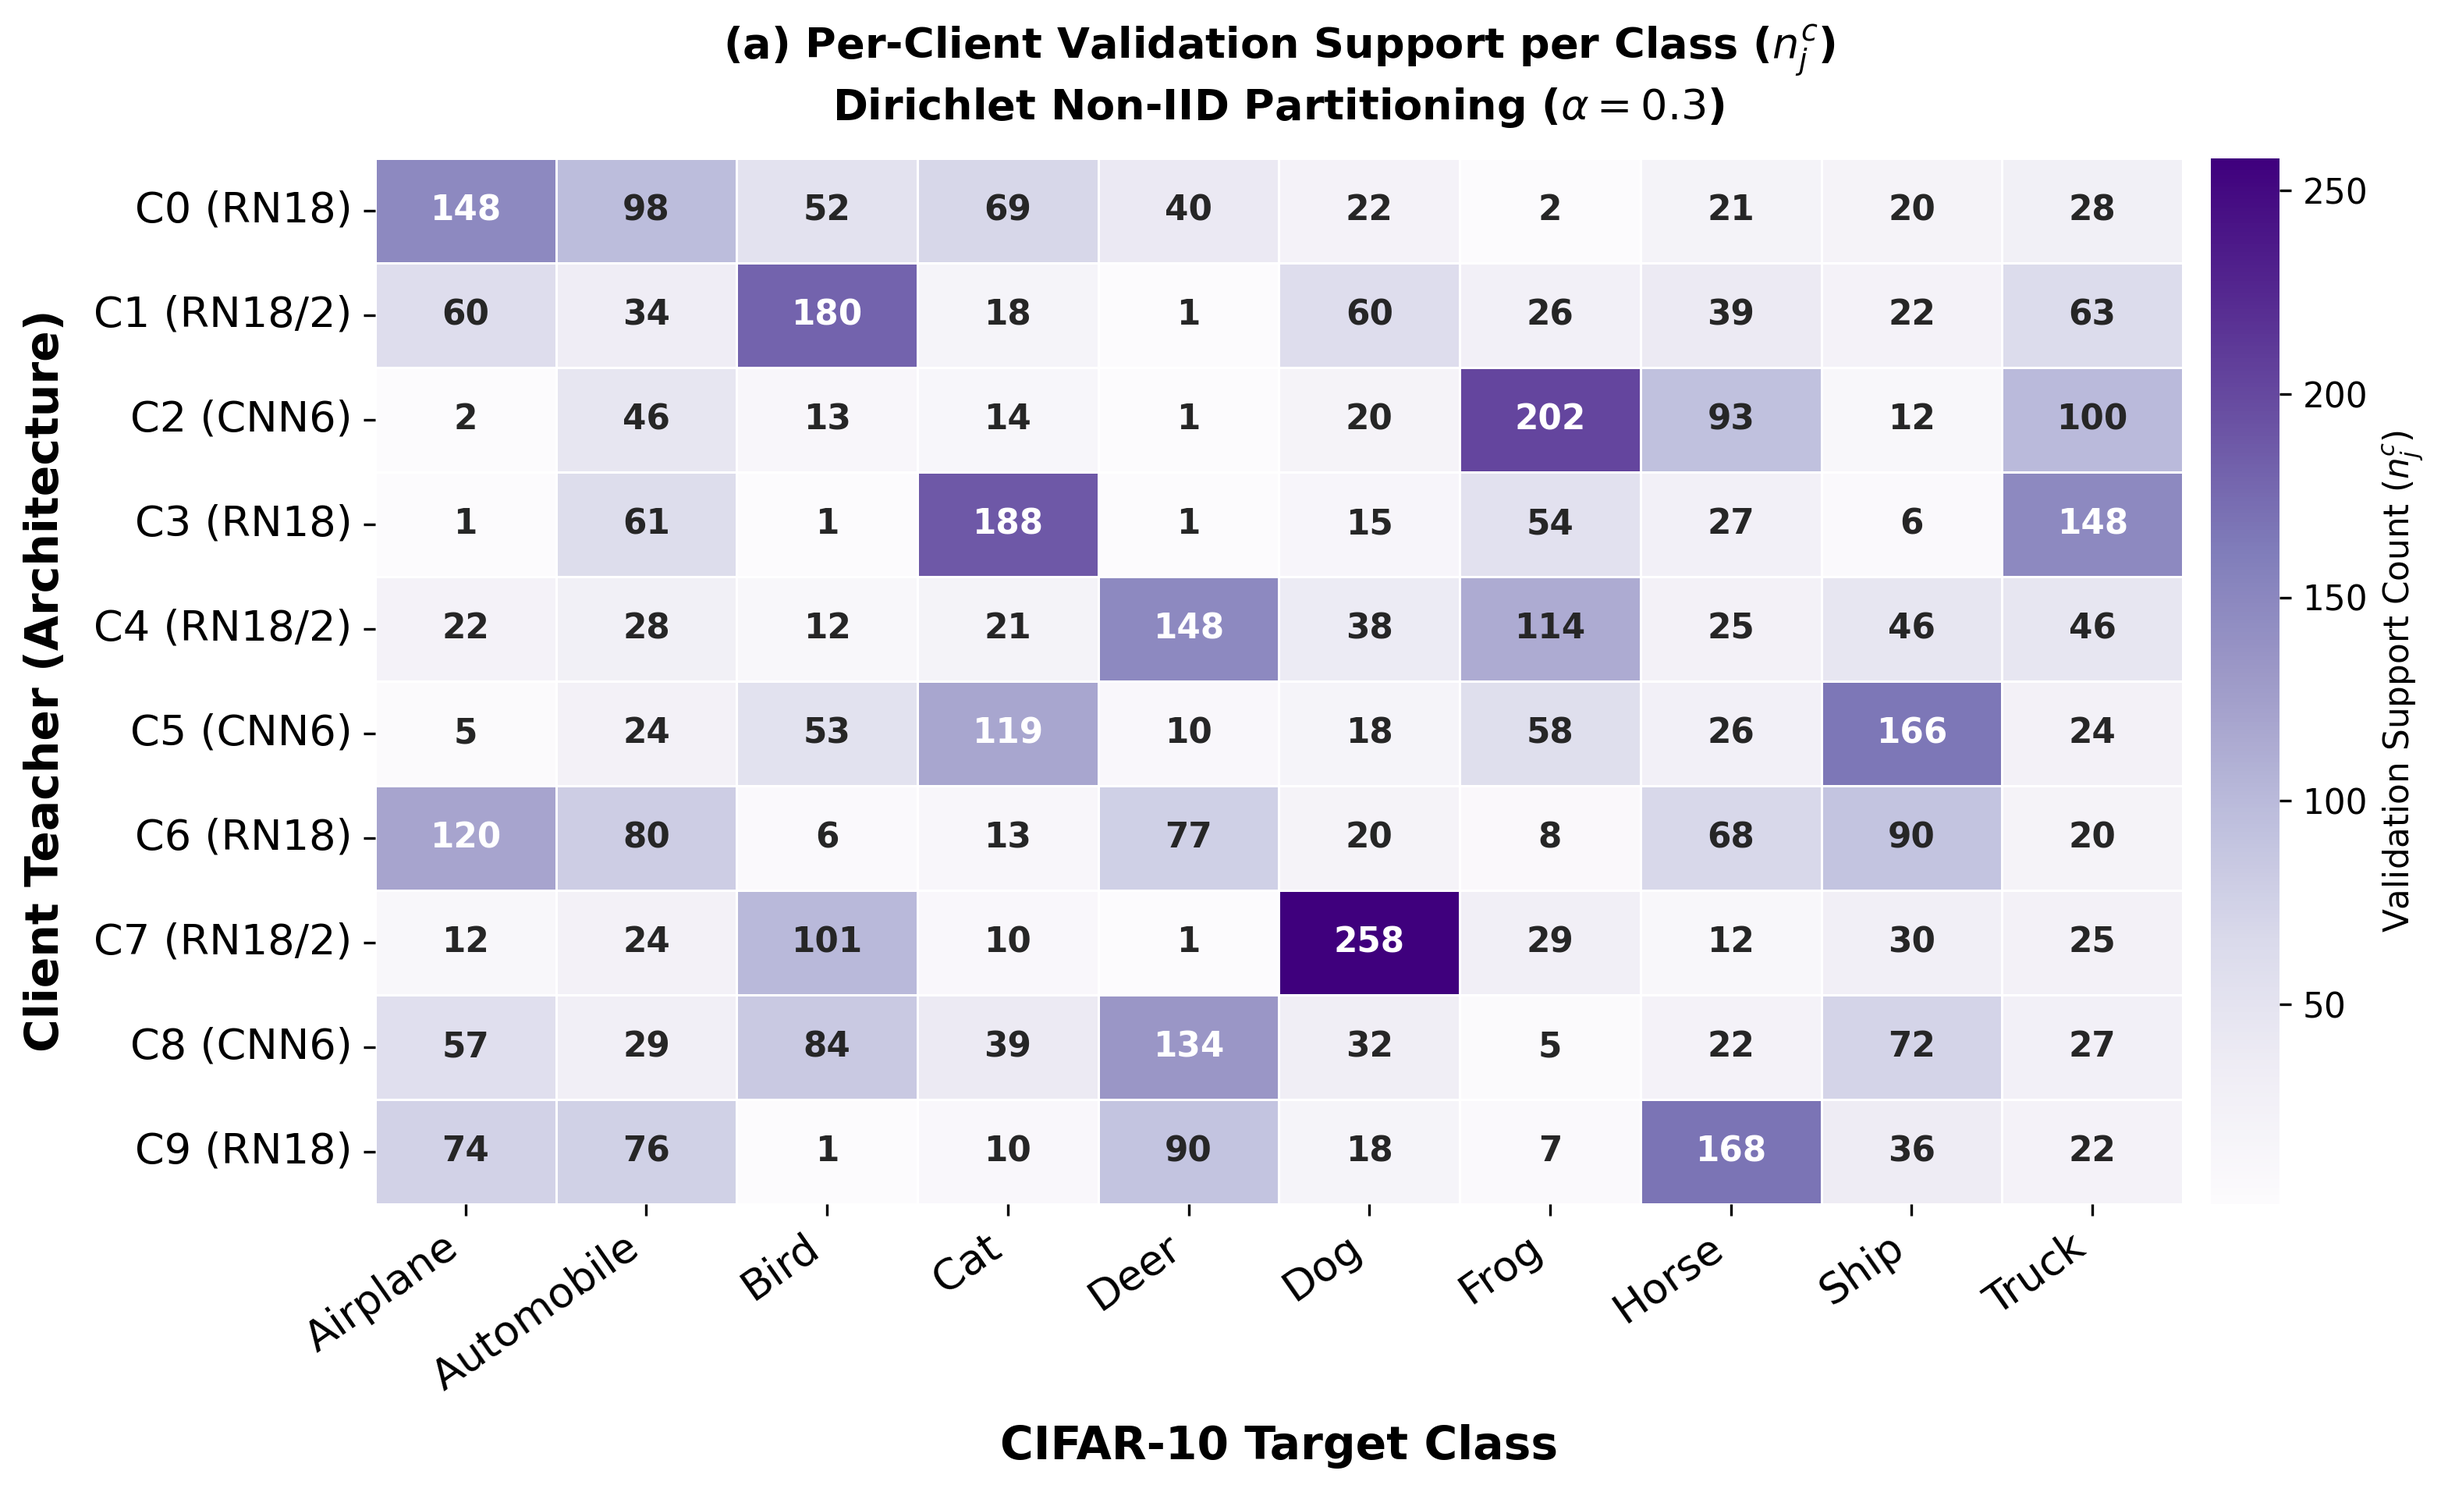
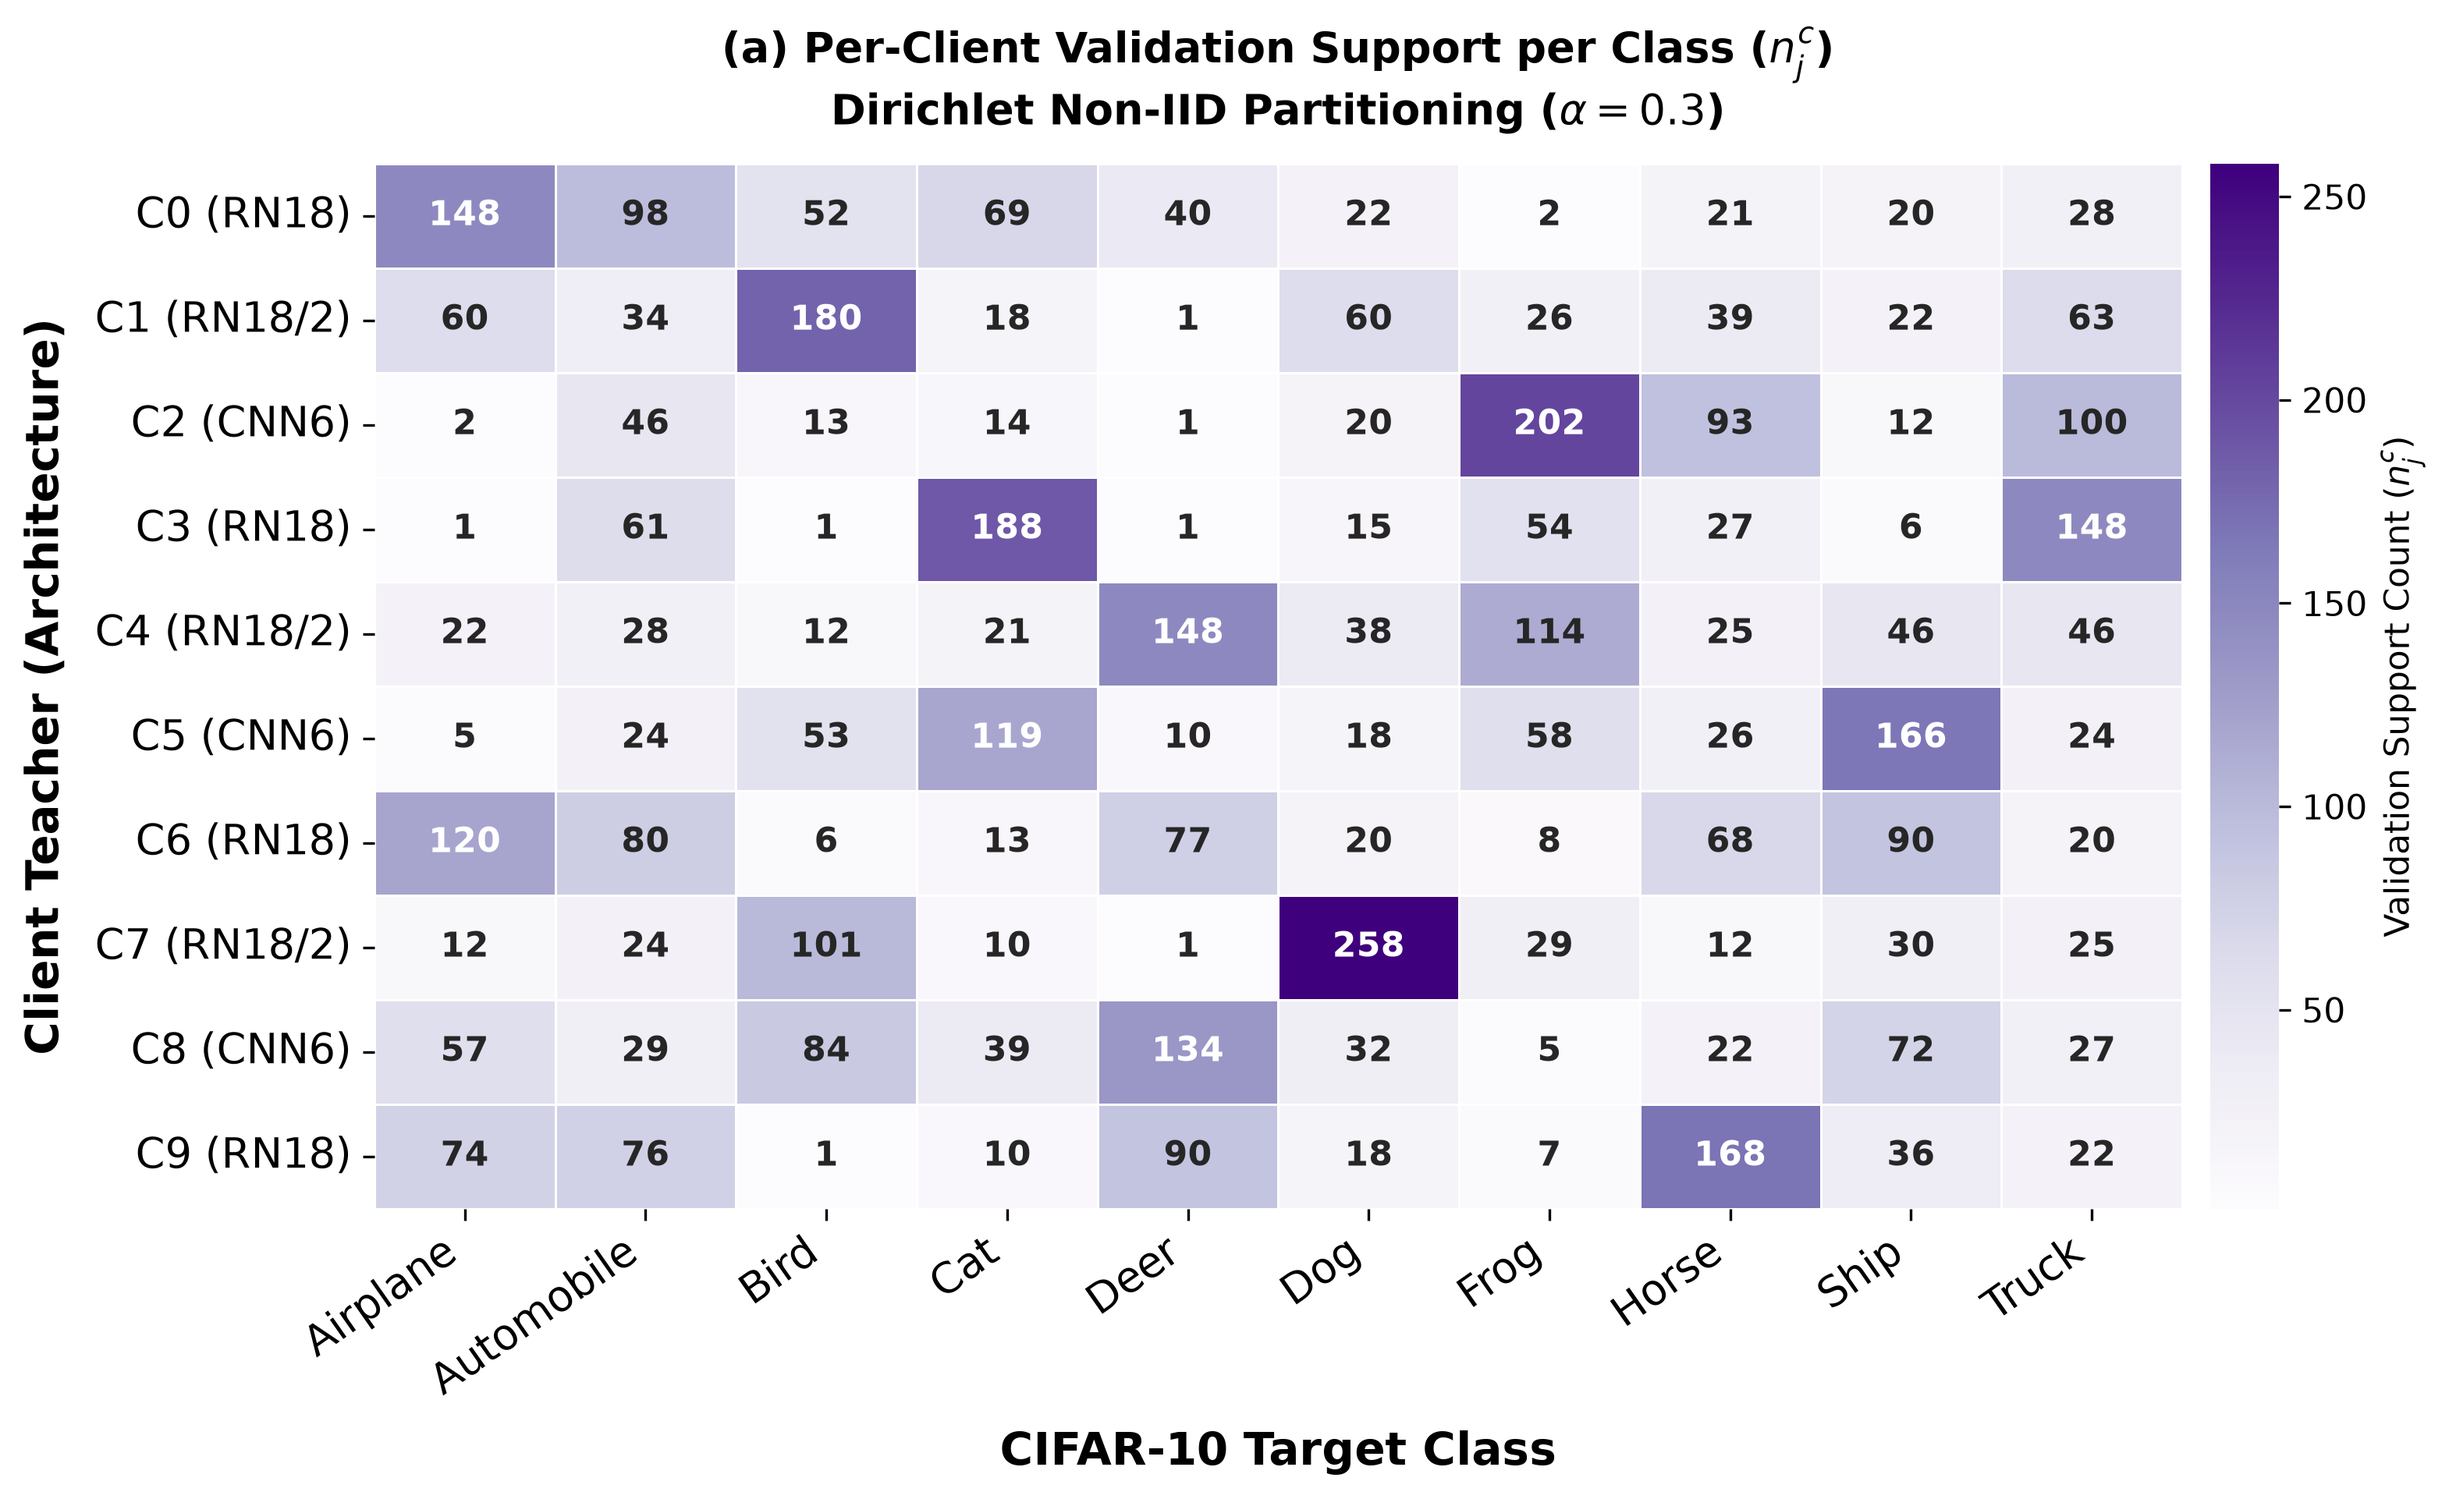
Update README.md and Figure 2 panel images

diff --git a/README.md b/README.md
@@ -42,10 +42,10 @@ Conventional federated learning (FL) relies on parameter averaging, which forces
 | (a) Validation Support Counts ($n_j^c$) | (b) Per-Client Global Test Accuracy (%) |
 | :---: | :---: |
 | <img src="figures/cifar10_panel_a_val_support.png" width="100%" /> | <img src="figures/cifar10_panel_b_test_acc.png" width="100%" /> |
-| **(c) Success Case (Bird Image #9381)** | **(d) Failure Case (Dog Image #128)** |
-| <img src="figures/cifar10_panel_c_success_bird.png" width="100%" /> | <img src="figures/cifar10_panel_d_failure_dog.png" width="100%" /> |
+| **(c) Success Case (Ship Image #2)** | **(d) Failure Case (Dog Image #128)** |
+| <img src="figures/cifar10_panel_c_success_ship.png" width="100%" /> | <img src="figures/cifar10_panel_d_failure_dog.png" width="100%" /> |
 
-> Figure 2. CRAD’s two-stage aggregation traced on two individual CIFAR-10 test images. W is the assigned distillation weight after per-class normalization, and the parenthesized value is the client’s probability on the true class. (c) Success case, a bird image: teachers with a single sample of the class are dropped as uninformed, four more fall outside the acceptance band ˜qc ± τc and are dropped as consensus outliers, and the surviving well-supported specialist (C1, n = 180) receives 59.5% of the weight, raising the aggregated target on the true class to 79.4% from a preliminary consensus of 68.3%. (d) Failure case, a dog image: the best-evidenced teacher (C7, n = 258, and correct at 63.7%) deviates from a low consensus formed by less informed peers and is removed by Stage 1, so its knowledge never reaches Stage 2 and the target stays at 27.2%.
+> Figure 2. CRAD’s two-stage aggregation traced on two individual CIFAR-10 test images. W is the assigned distillation weight after per-class normalization, the parenthesized value is the client’s probability on the true class, and dev = |q_j^c - q̃^c| denotes absolute deviation from preliminary consensus. (c) Success case, a ship image: teachers below the median support threshold (n < 33.0) are dropped upfront, two more fall outside the acceptance band ˜qc ± τc and are dropped as consensus outliers, and the surviving well-supported specialist (C5, n = 166) receives 65.5% of the weight, raising the aggregated target on the true class to 86.8% from a preliminary consensus of 68.7% (vs. 58.9% for uniform KD). (d) Failure case, a dog image: after dropping shards below median (n < 21.0), the best-evidenced teacher (C7, n = 258, and correct at 63.7%) deviates from a low consensus formed by less informed peers and is removed by the Stage-2 agreement filter, so its knowledge never reaches precision weighting and the target stays at 24.6%.
 
 ---
 
@@ -199,6 +199,13 @@ python experiments/main.py \
 * **Uncertainty KD:** Replace `--idea 4.3_pre_v0 --adaptive_pre_filter` with `--idea idea3`.
 
 </details>
+
+> **Note on CRAD `--idea` Variants & Method Description:**
+> - `--idea 4.3_pre_v0` *(default)*: Uses per-class **training counts** ($n_{\text{train}, j}^c$) for Stage-1 support filtering and **precision-weighted** preliminary consensus for Stage-2 agreement filtering (used for the reported paper results).
+> - `--idea 4.3_pre_val`: Uses per-class **validation counts** ($n_j^c$) for Stage-1 support filtering and **precision-weighted** preliminary consensus for Stage-2.
+> - `--idea 4.3_paper`: Uses per-class **validation counts** ($n_j^c$) for Stage-1 support filtering and **unweighted** preliminary consensus for Stage-2.
+>
+> Please refer to the updated [arXiv v3](https://arxiv.org/abs/2609.00446) for the corrected method description.
 
 ---
 
